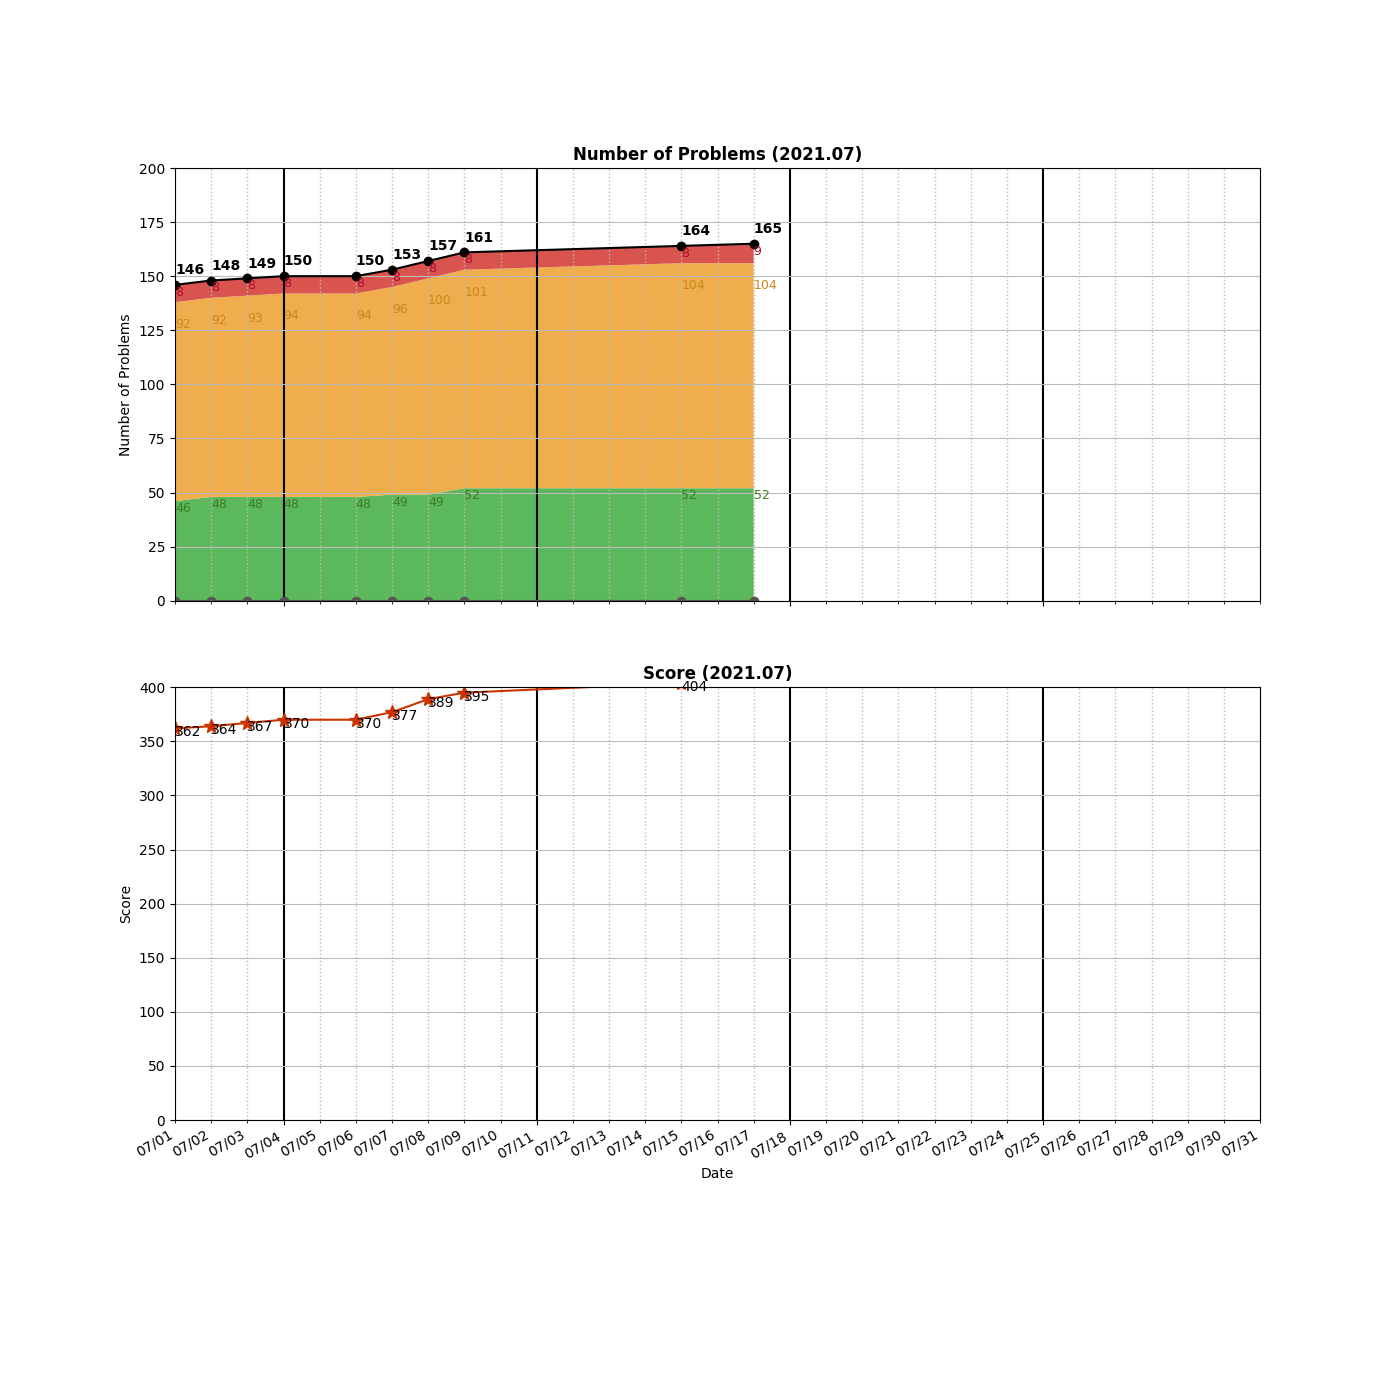
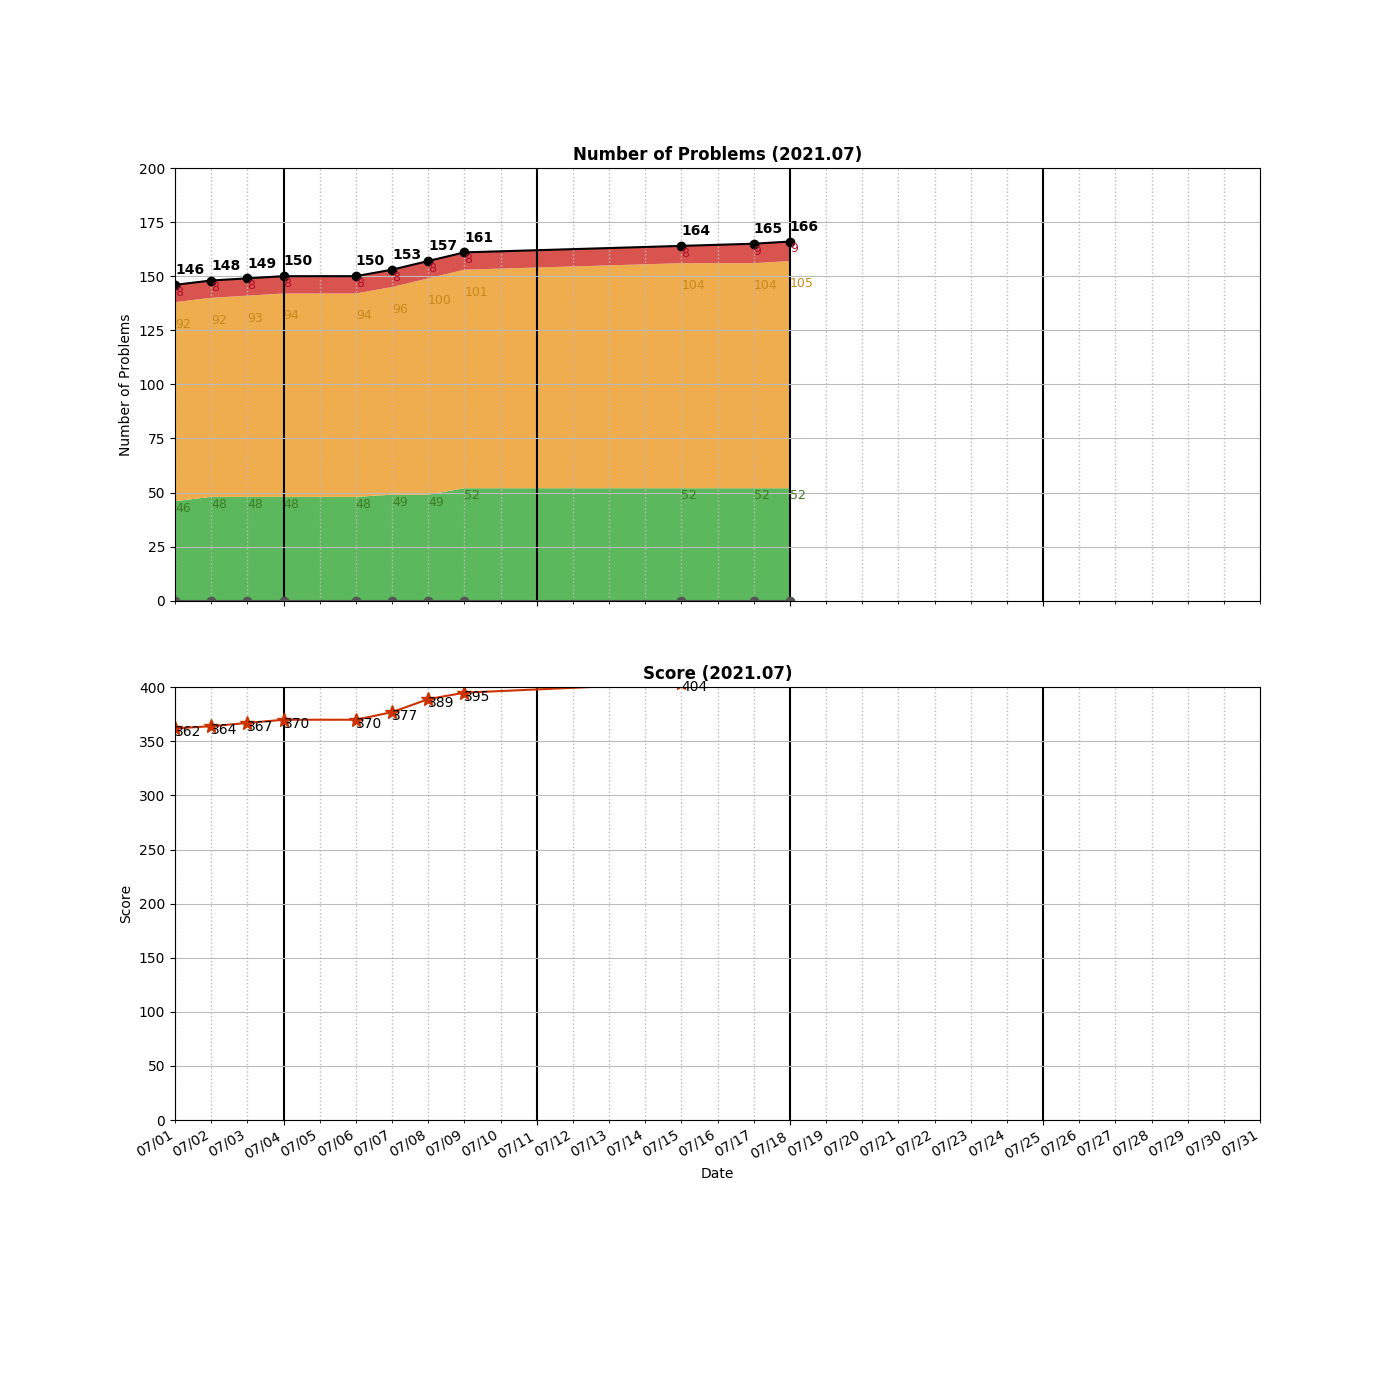
Added __0109__Convert Sorted List to Binary Search Tree.py

Changed region(s): [[0.5221, 0.1536, 0.5836, 0.43]]

diff --git a/algo/LinkedList/__0109__Convert Sorted List to Binary Search Tree.py b/algo/LinkedList/__0109__Convert Sorted List to Binary Search Tree.py
@@ -1,0 +1,46 @@
+# Definition for singly-linked list.
+# class ListNode:
+#     def __init__(self, val=0, next=None):
+#         self.val = val
+#         self.next = next
+# Definition for a binary tree node.
+# class TreeNode:
+#     def __init__(self, val=0, left=None, right=None):
+#         self.val = val
+#         self.left = left
+#         self.right = right
+class Solution:
+    def sortedListToBST(self, head: ListNode) -> TreeNode:
+        if not head:
+            return None
+        if not head.next:             #MUST to have to end the recursion
+            return TreeNode(head.val) #TreeNode
+        
+        mid = self.getMidNode(head)
+        #print("Mid:", mid)
+        #self.printList(head)
+        #self.printList(mid.next)
+        
+        midTreeNode = TreeNode(mid.val)
+        midTreeNode.left = self.sortedListToBST(head)
+        midTreeNode.right = self.sortedListToBST(mid.next)
+        
+        return midTreeNode
+    
+    def getMidNode(self, head):
+        p0 = ListNode(0)
+        p0.next = head
+        p1, p2 = head, head
+        while p2 and p2.next:
+            p0 = p0.next
+            p1 = p1.next
+            p2 = p2.next.next
+        p0.next = None #Two heads: head, p1 
+        return p1
+    
+    def printList(self, head):
+        p1 = head
+        while p1:
+            print(p1.val, "->", end = "")
+            p1 = p1.next
+        print()

diff --git a/README.md b/README.md
@@ -116,6 +116,7 @@ algo
 │   ├── __0083__Remove\ Duplicates\ from\ Sorted\ List.py
 │   ├── __0086__Partition\ List.py
 │   ├── __0092__Reverse\ Linked\ List\ II.py
+│   ├── __0109__Convert\ Sorted\ List\ to\ Binary\ Search\ Tree.py
 │   ├── __0141__Linked\ List\ Cycle.py
 │   ├── __0142__Linked\ List\ Cycle\ II.py
 │   ├── __0148__Sort\ List.py
@@ -192,7 +193,7 @@ algo
         ├── LinkedList.cpython-37.pyc
         └── UnrolledLinkedList.cpython-37.pyc
 
-20 directories, 171 files
+20 directories, 172 files
 
 =====================================
 ============= Local Repo ============
@@ -250,6 +251,7 @@ __0103__Binary Tree Zigzag Level Order Traversal.py
 __0104__Maximum Depth of Binary Tree.py
 __0107__Binary Tree Level Order Traversal II.py
 __0108__Convert Sorted Array to Binary Search Tree.py
+__0109__Convert Sorted List to Binary Search Tree.py
 __0111__Minimum Depth of Binary Tree.py
 __0112__Path Sum.py
 __0113__Path Sum II.py
@@ -360,7 +362,7 @@ __1429__First Unique Number.py
 __1593__Split a String Into the Max Number of Unique Substrings.py
 __1905__Count Sub Islands.py
 =====================================
-Num of Python Practice:  162
+Num of Python Practice:  163
 
 
 =====================================
@@ -421,6 +423,7 @@ Num of Python Practice:  162
  0104 Maximum Depth of Binary Tree
  0107 Binary Tree Level Order Traversal II
  0108 Convert Sorted Array to Binary Search Tree
+ 0109 Convert Sorted List to Binary Search Tree
  0111 Minimum Depth of Binary Tree
  0112 Path Sum
  0113 Path Sum II
@@ -533,10 +536,10 @@ Num of Python Practice:  162
  1905 Count Sub Islands
 =====================================
 Solved / Total (Easy)  :   52 /  505
-Solved / Total (Medium):  104 / 1020
+Solved / Total (Medium):  105 / 1020
 Solved / Total (Hard)  :    9 /  409
-Solved / Total (All)   :  165 / 1934
-Total Score            :  409
+Solved / Total (All)   :  166 / 1934
+Total Score            :  412
 =====================================
 
 ```
